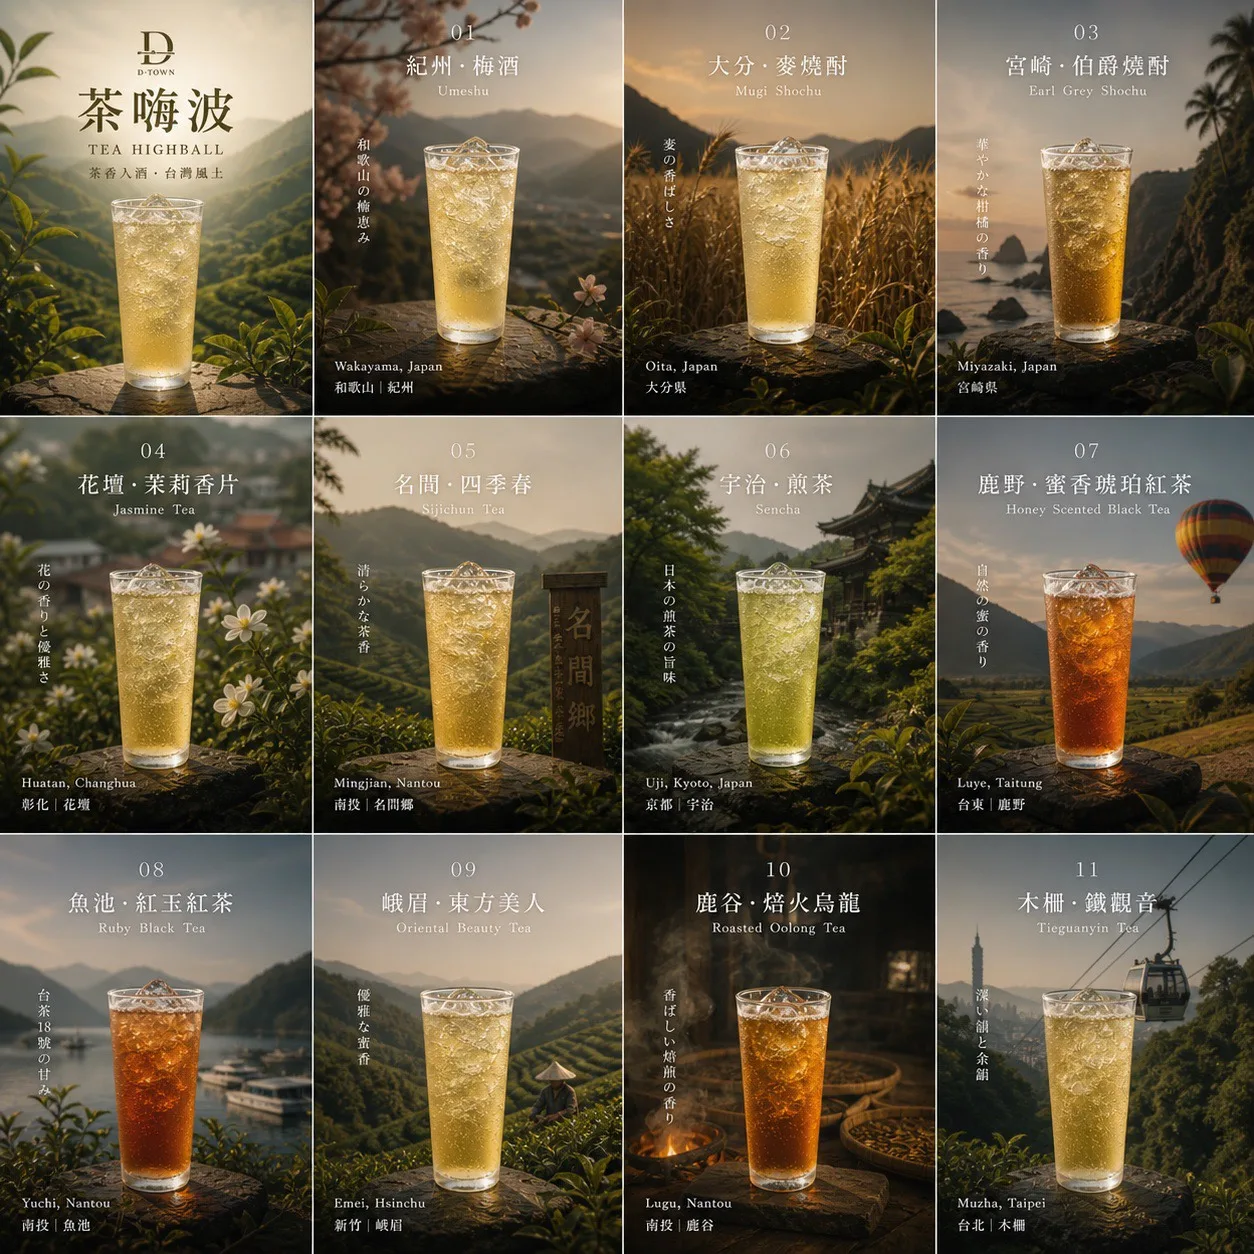
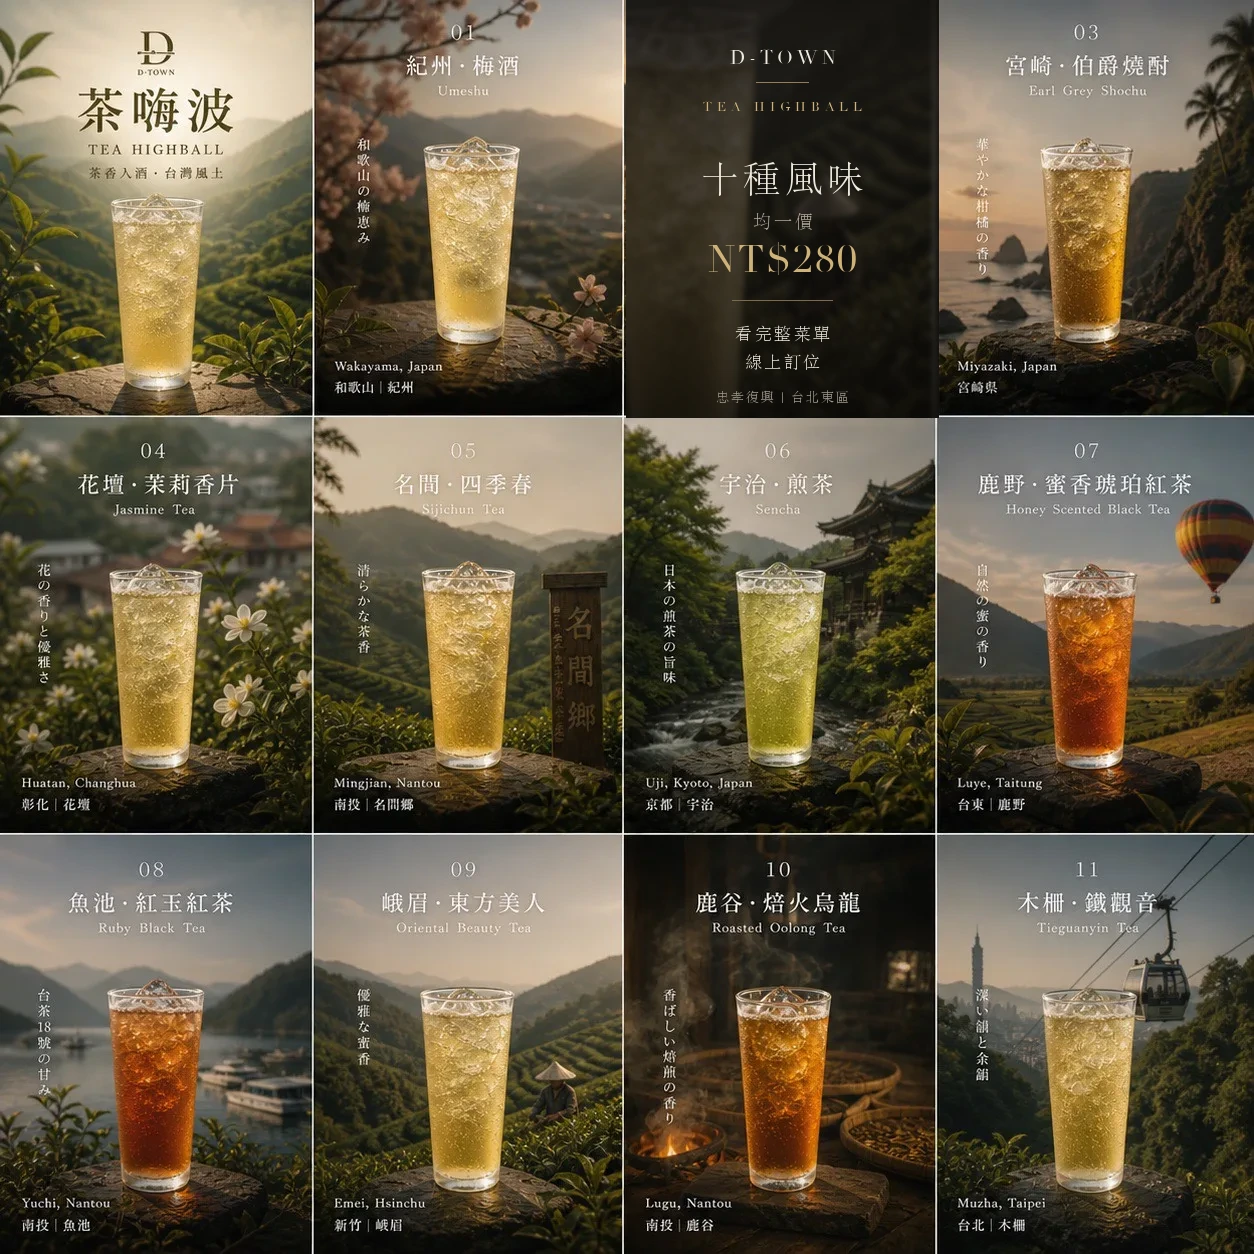
茶嗨波拼圖補上結尾卡：填滿右下空格＋標示均一價 NT$280
- 用原 sprite 素材合成一張收尾卡（十種風味／均一價 NT$280／看完整菜單・線上訂位），
  畫在原「02 大分・麥燒酎」的圖塊位置，其餘格座標完全不動
- 中英雙語各補一格 tea-cell（排在最後），點擊平滑捲動至 #menu
- 4 欄 grid 由 11 格補回 12 格，右下角不再留空

Changed region(s): [[0.4976, 0.0, 0.7464, 0.3421]]

diff --git a/en/index.html b/en/index.html
@@ -2011,6 +2011,7 @@
       gap: 3px;
     }
 
+    .tea-cell-cta { cursor: pointer !important; }
     .tea-cell {
       position: relative;
       aspect-ratio: 1 / 1;
@@ -3258,6 +3259,7 @@
             <div class="tea-cell" style="background-position:33.33% 100%" onclick="openTeaCell('33.33% 100%','09 Emei · Oriental Beauty')"><div class="tea-cell-label">09 Oriental Beauty</div></div>
             <div class="tea-cell" style="background-position:66.67% 100%" onclick="openTeaCell('66.67% 100%','10 Lugu · Roasted Oolong')"><div class="tea-cell-label">10 Roasted Oolong</div></div>
             <div class="tea-cell" style="background-position:100% 100%"   onclick="openTeaCell('100% 100%','11 Muzha · Tieguanyin')"><div class="tea-cell-label">11 Tieguanyin</div></div>
+            <div class="tea-cell tea-cell-cta" style="background-position:66.67% 0%" onclick="document.getElementById('menu').scrollIntoView({behavior:'smooth'})"><div class="tea-cell-label">See Full Menu</div></div>
           </div>
         </div>
       </div>

diff --git a/index.html b/index.html
@@ -2011,6 +2011,7 @@
       gap: 3px;
     }
 
+    .tea-cell-cta { cursor: pointer !important; }
     .tea-cell {
       position: relative;
       aspect-ratio: 1 / 1;
@@ -3409,6 +3410,7 @@
             <div class="tea-cell" style="background-position:33.33% 100%" onclick="openTeaCell('33.33% 100%','09 峨眉・東方美人')"><div class="tea-cell-label">09 東方美人</div></div>
             <div class="tea-cell" style="background-position:66.67% 100%" onclick="openTeaCell('66.67% 100%','10 鹿谷・焙火烏龍')"><div class="tea-cell-label">10 焙火烏龍</div></div>
             <div class="tea-cell" style="background-position:100% 100%"   onclick="openTeaCell('100% 100%','11 木柵・鐵觀音')"><div class="tea-cell-label">11 鐵觀音</div></div>
+            <div class="tea-cell tea-cell-cta" style="background-position:66.67% 0%" onclick="document.getElementById('menu').scrollIntoView({behavior:'smooth'})"><div class="tea-cell-label">看完整菜單</div></div>
           </div>
         </div>
       </div>
